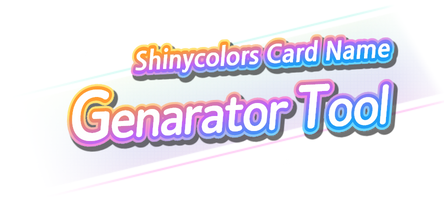
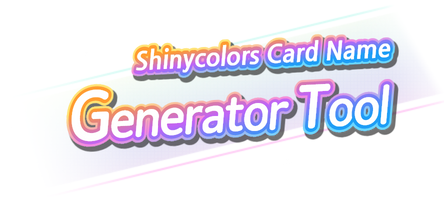
Project: 오타 수정...

Changed region(s): [[0.1464, 0.4242, 0.9077, 0.7576], [0.2928, 0.1818, 0.9077, 0.3939], [0.6441, 0.4242, 0.6734, 0.4545]]

diff --git a/image.html b/image.html
@@ -3,7 +3,7 @@
     <head>
         <meta charset="UTF-8" />
         <meta name="viewport" content="width=device-width, initial-scale=1.0" />
-        <title>shany-card-name-genarator</title>
+        <title>shany-card-name-generator</title>
         <style>
             * {
                 padding: 0;
@@ -247,7 +247,7 @@
             }
 
             CloneNode();
-            SetText("Shinycolors Card Name", "Genarator Tool", "ssr");
+            SetText("Shinycolors Card Name", "Generator Tool", "ssr");
         </script>
     </body>
 </html>

diff --git a/README.md b/README.md
@@ -1,5 +1,5 @@
-<img src="https://raw.githubusercontent.com/PortalCube/shany-card-name-genarator/main/title_en.png"></img>
-<img src="https://raw.githubusercontent.com/PortalCube/shany-card-name-genarator/main/title_ko.png"></img>
+<img src="https://raw.githubusercontent.com/PortalCube/shany-card-name-generator/main/title_en.png"></img>
+<img src="https://raw.githubusercontent.com/PortalCube/shany-card-name-generator/main/title_ko.png"></img>
 
 # 샤이니 컬러즈 카드 이름 생성기
 
